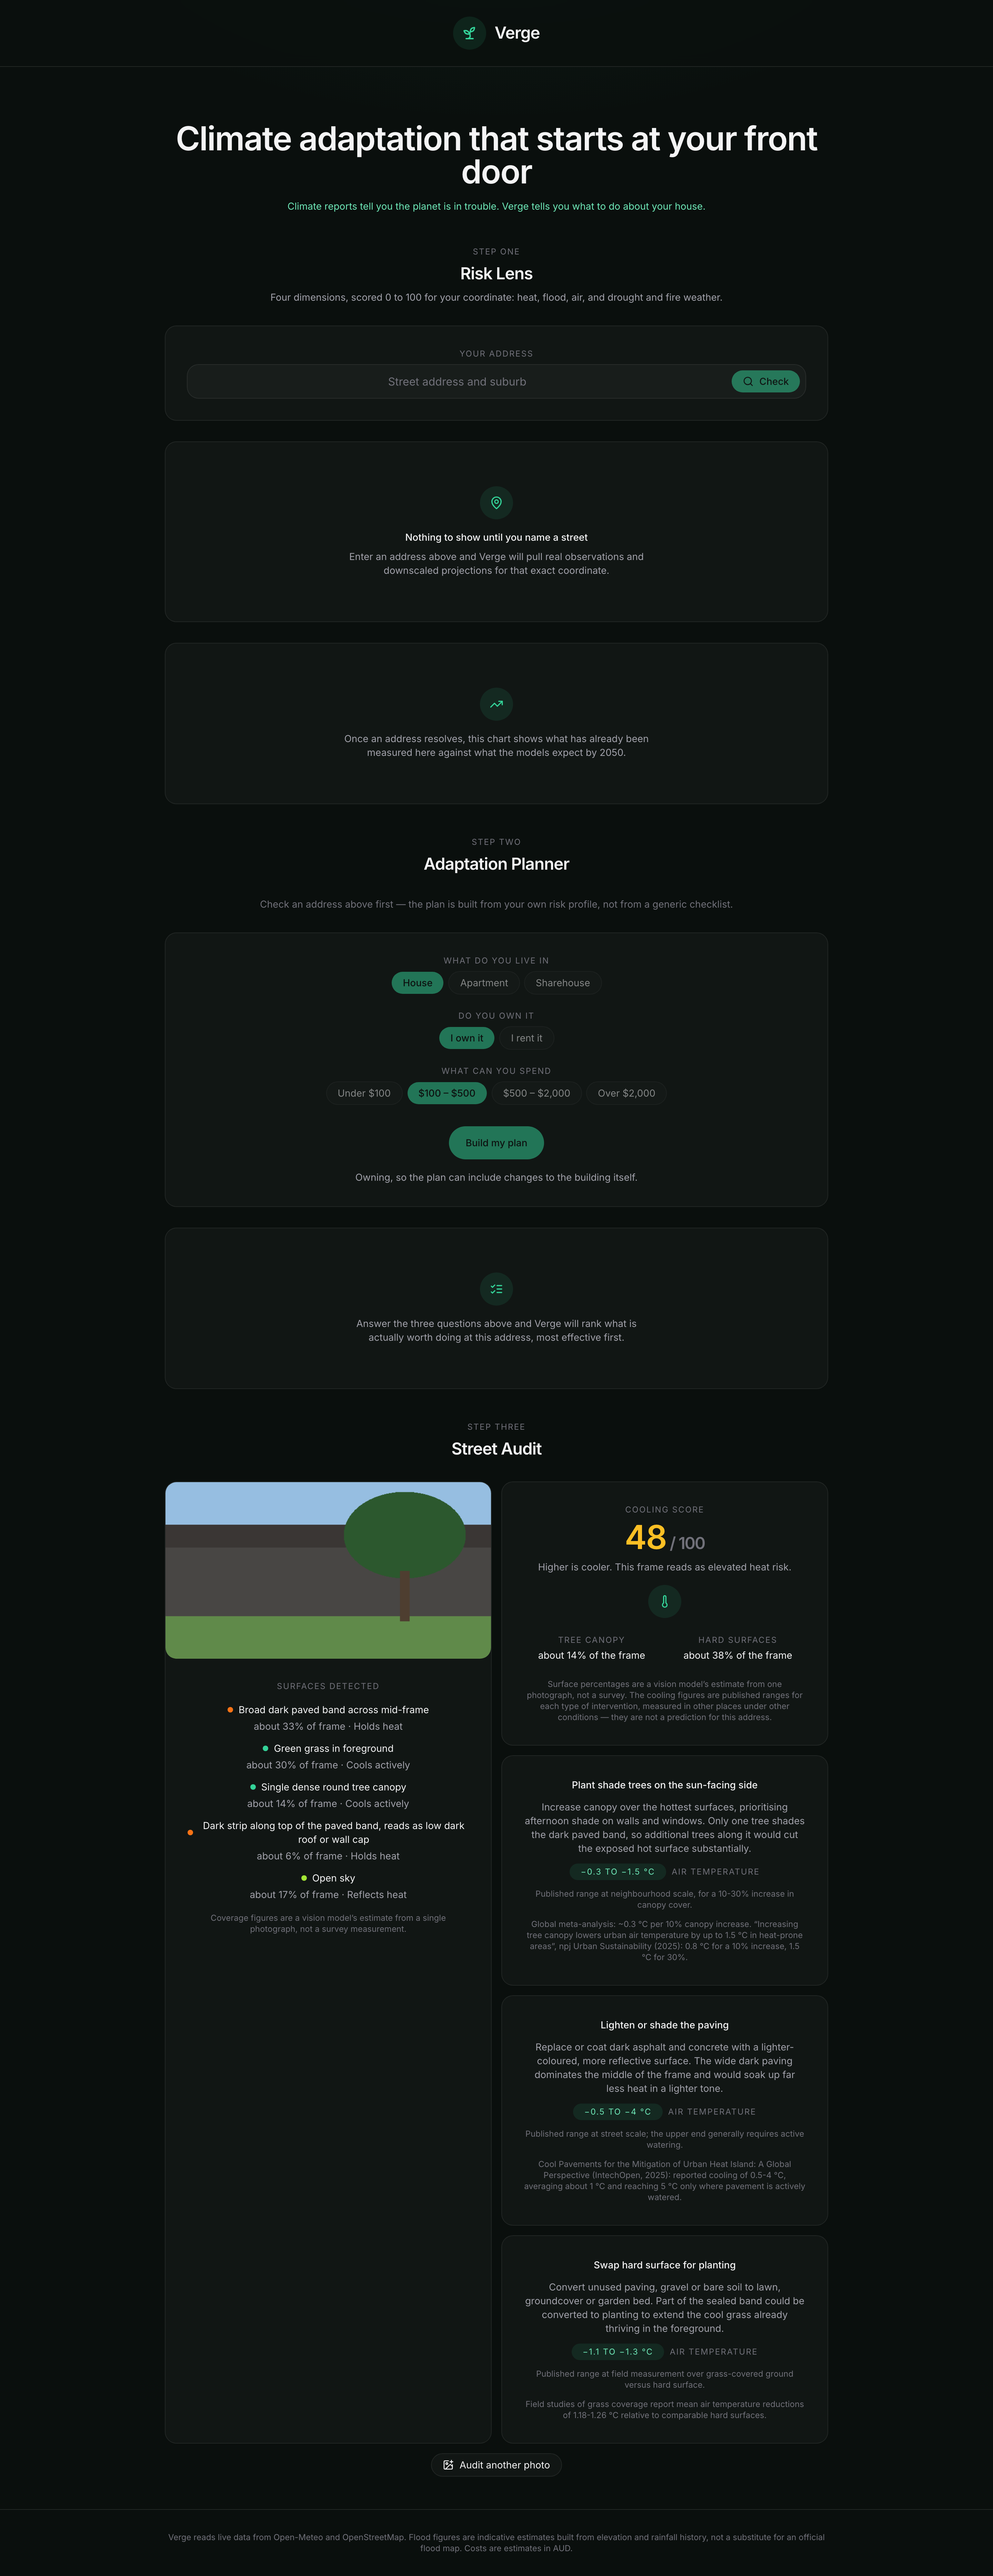
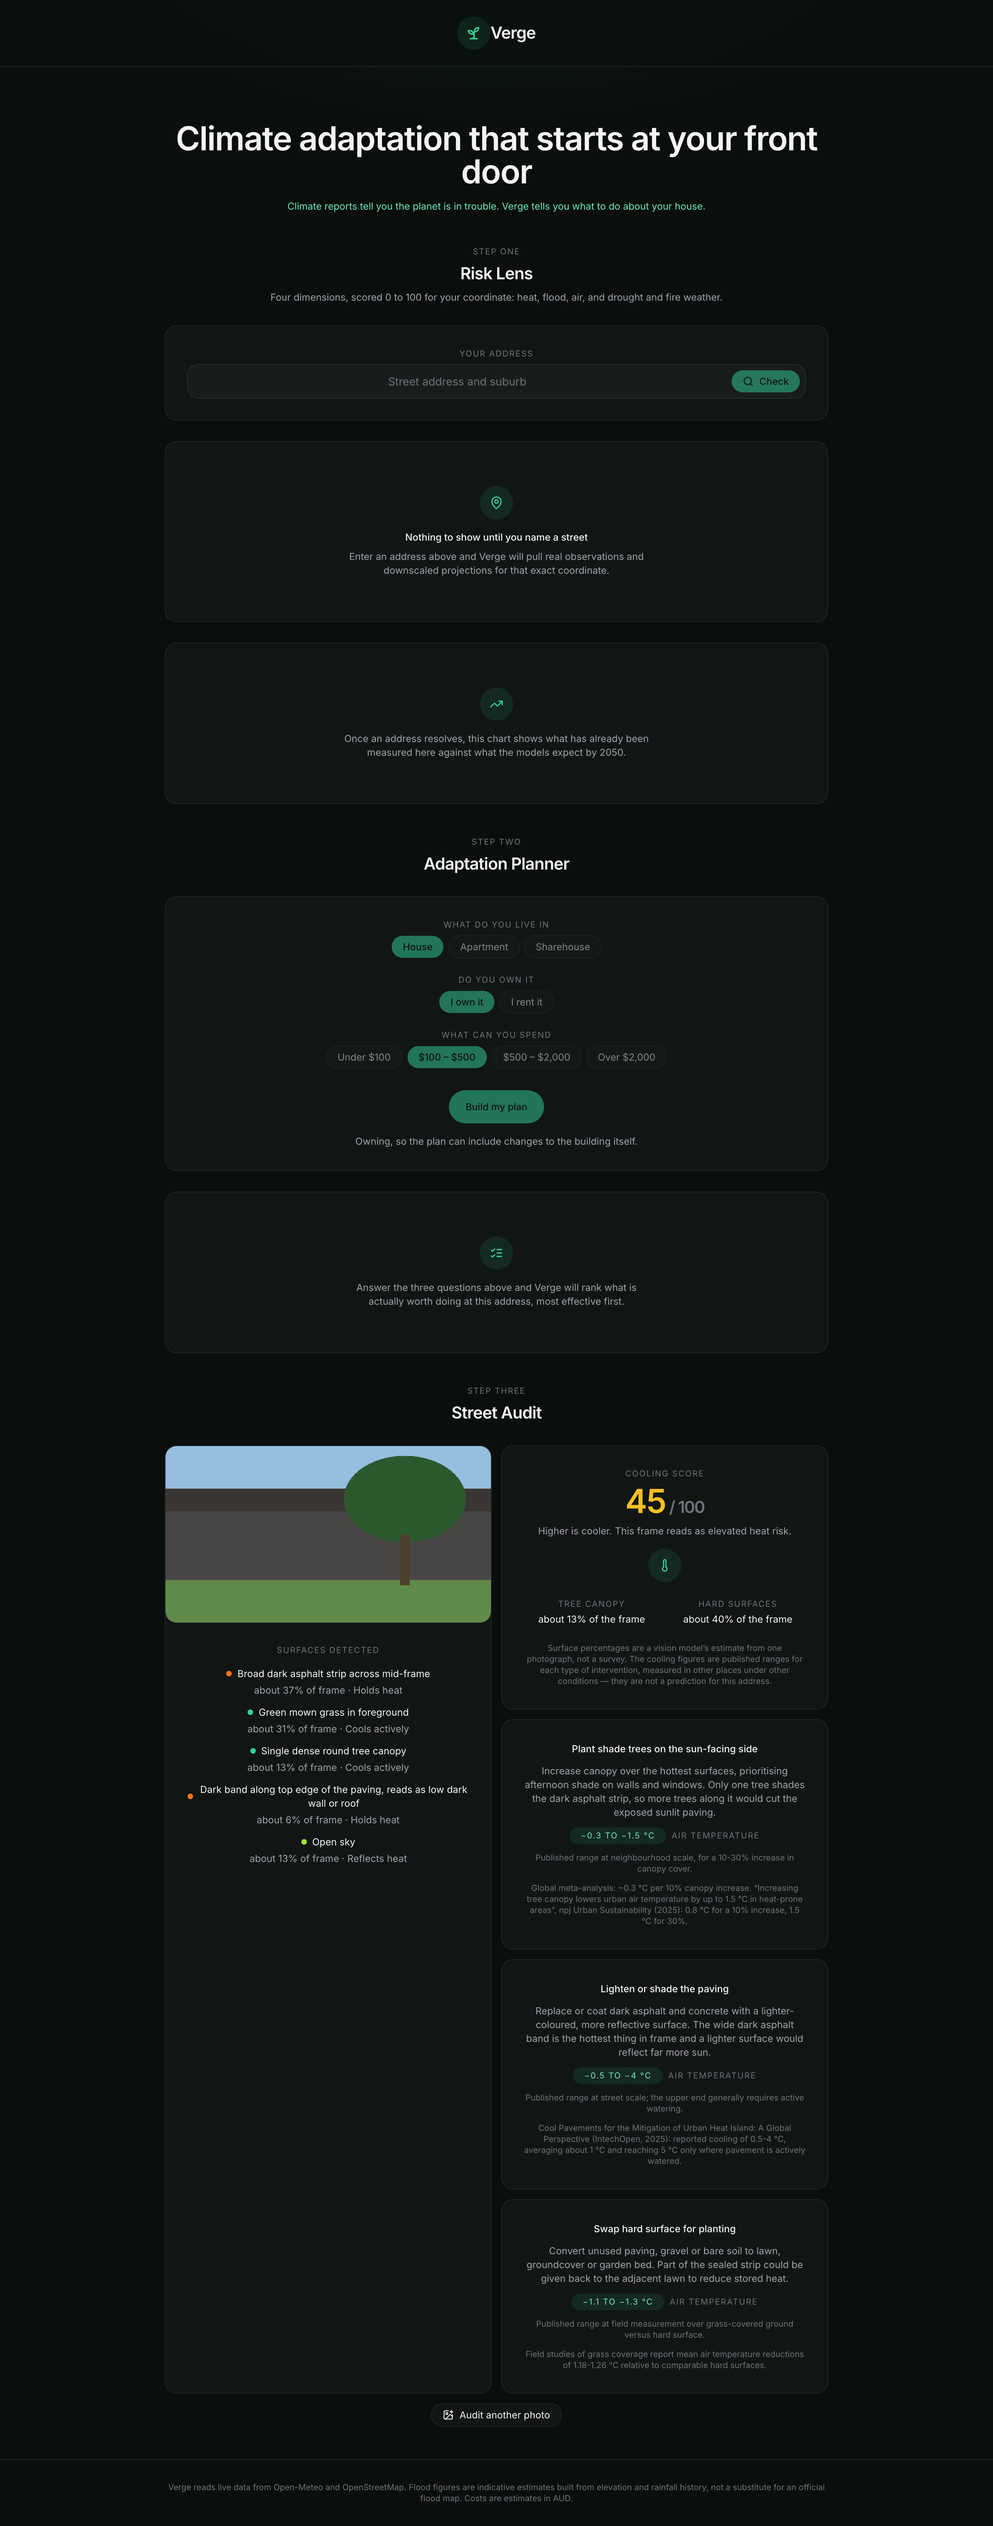
Header lockup flush; drop two more lines of explanatory copy
Removes the gap between mark and wordmark so they read as one lockup.

Removes the planner's "Check an address above first" line. The disabled form
and the Step One / Step Two ordering already carry that.

Removes the coverage disclaimer from the surfaces panel. Checked before
removing that the disclosure survives: the audit's caveat, rendered in the
CoolingScore card immediately beside it, already opens with "Surface
percentages are a vision model's estimate from one photograph, not a survey."
The removed line was saying the same thing twice, a few hundred pixels apart.

diff --git a/src/components/layout/Header.tsx b/src/components/layout/Header.tsx
@@ -13,7 +13,7 @@ import { Sprout } from 'lucide-react'
 export function Header() {
   return (
     <header className="sticky top-0 z-10 border-b border-white/10 bg-canvas/80 backdrop-blur">
-      <div className="mx-auto flex max-w-5xl items-center justify-center gap-3 px-6 py-6 md:px-8">
+      <div className="mx-auto flex max-w-5xl items-center justify-center px-6 py-6 md:px-8">
         <span
           className="flex h-12 w-12 shrink-0 items-center justify-center rounded-full bg-accent-quiet"
           aria-hidden="true"

diff --git a/src/App.tsx b/src/App.tsx
@@ -150,13 +150,6 @@ export default function App() {
           title="Adaptation Planner"
         />
 
-        {profile ? null : (
-          <p className="text-sm text-zinc-500">
-            Check an address above first — the plan is built from your own risk profile, not
-            from a generic checklist.
-          </p>
-        )}
-
         <DwellingForm
           disabled={!profile}
           loading={planner.state.status === 'loading'}

diff --git a/src/components/audit/SurfaceOverlay.tsx b/src/components/audit/SurfaceOverlay.tsx
@@ -62,10 +62,6 @@ export function SurfaceOverlay({ previewUrl, surfaces }: SurfaceOverlayProps) {
           ))}
         </ul>
 
-        <p className="text-xs text-zinc-500">
-          Coverage figures are a vision model’s estimate from a single photograph, not a
-          survey measurement.
-        </p>
       </div>
     </Card>
   )
